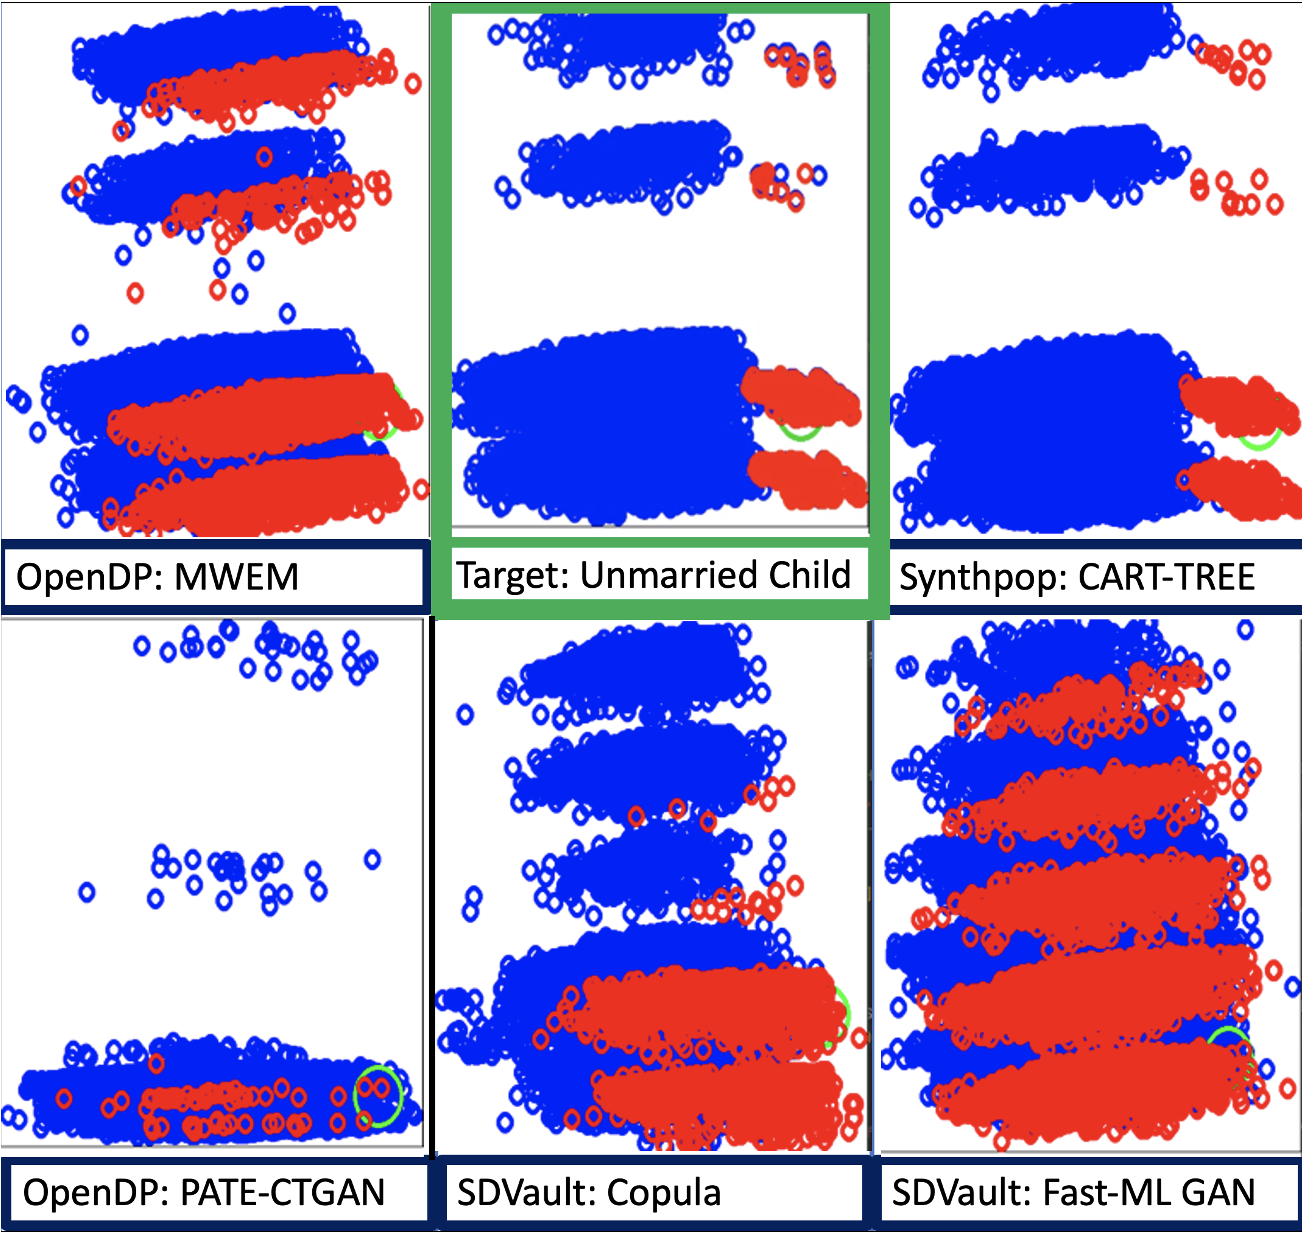
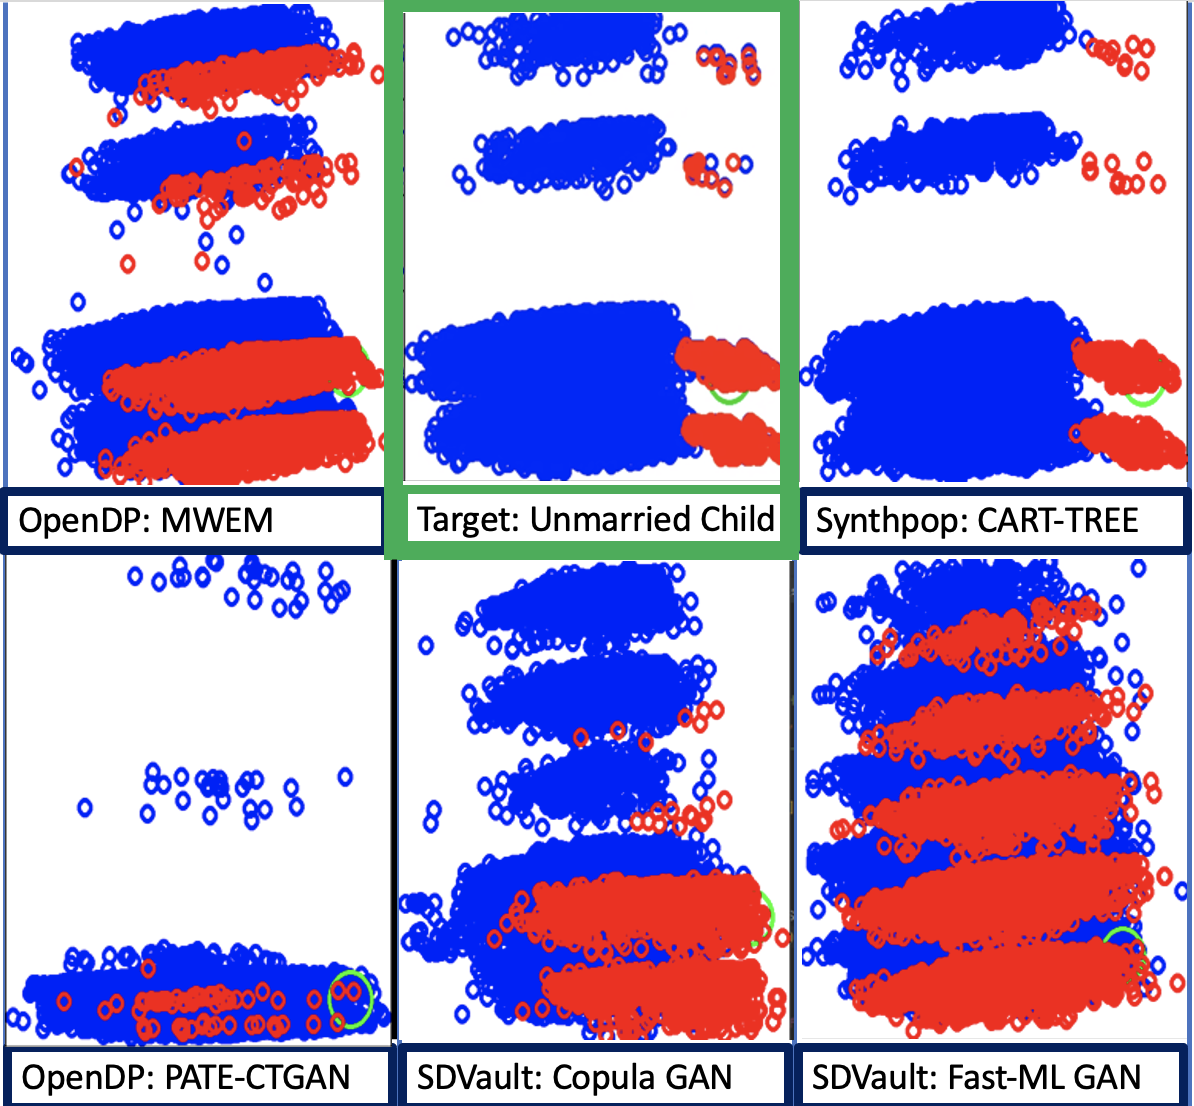
Update sdv copula name

Changed region(s): [[0.0, 0.0, 1.0, 1.0], [0.7127, 0.0, 0.8367, 0.123], [0.062, 0.6763, 0.2789, 0.7685]]

diff --git a/pages/techniques.html b/pages/techniques.html
@@ -271,7 +271,7 @@
 					<br>
 					<div id="sdv-copula" class="blog-card">
 						<div class="blog-card-content">
-							<h3><b>SDV Copula</b></h3>
+							<h3><b>SDV Copula GAN</b></h3>
 							<div class="row row-12-mobilep">
 								<div class="col-6">
 									<section class="box">
@@ -288,7 +288,7 @@
 										<h4><b>References:</b></h4>
 										<ul>
 											<li><a href="https://sdv.dev/SDV/api_reference/tabular/api/sdv.tabular.copulagan.CopulaGAN.html">
-												SDV Copula Documentation</a></li>
+												SDV Copula GAN Documentation</a></li>
 										</ul>
 									</section>
 								</div>
